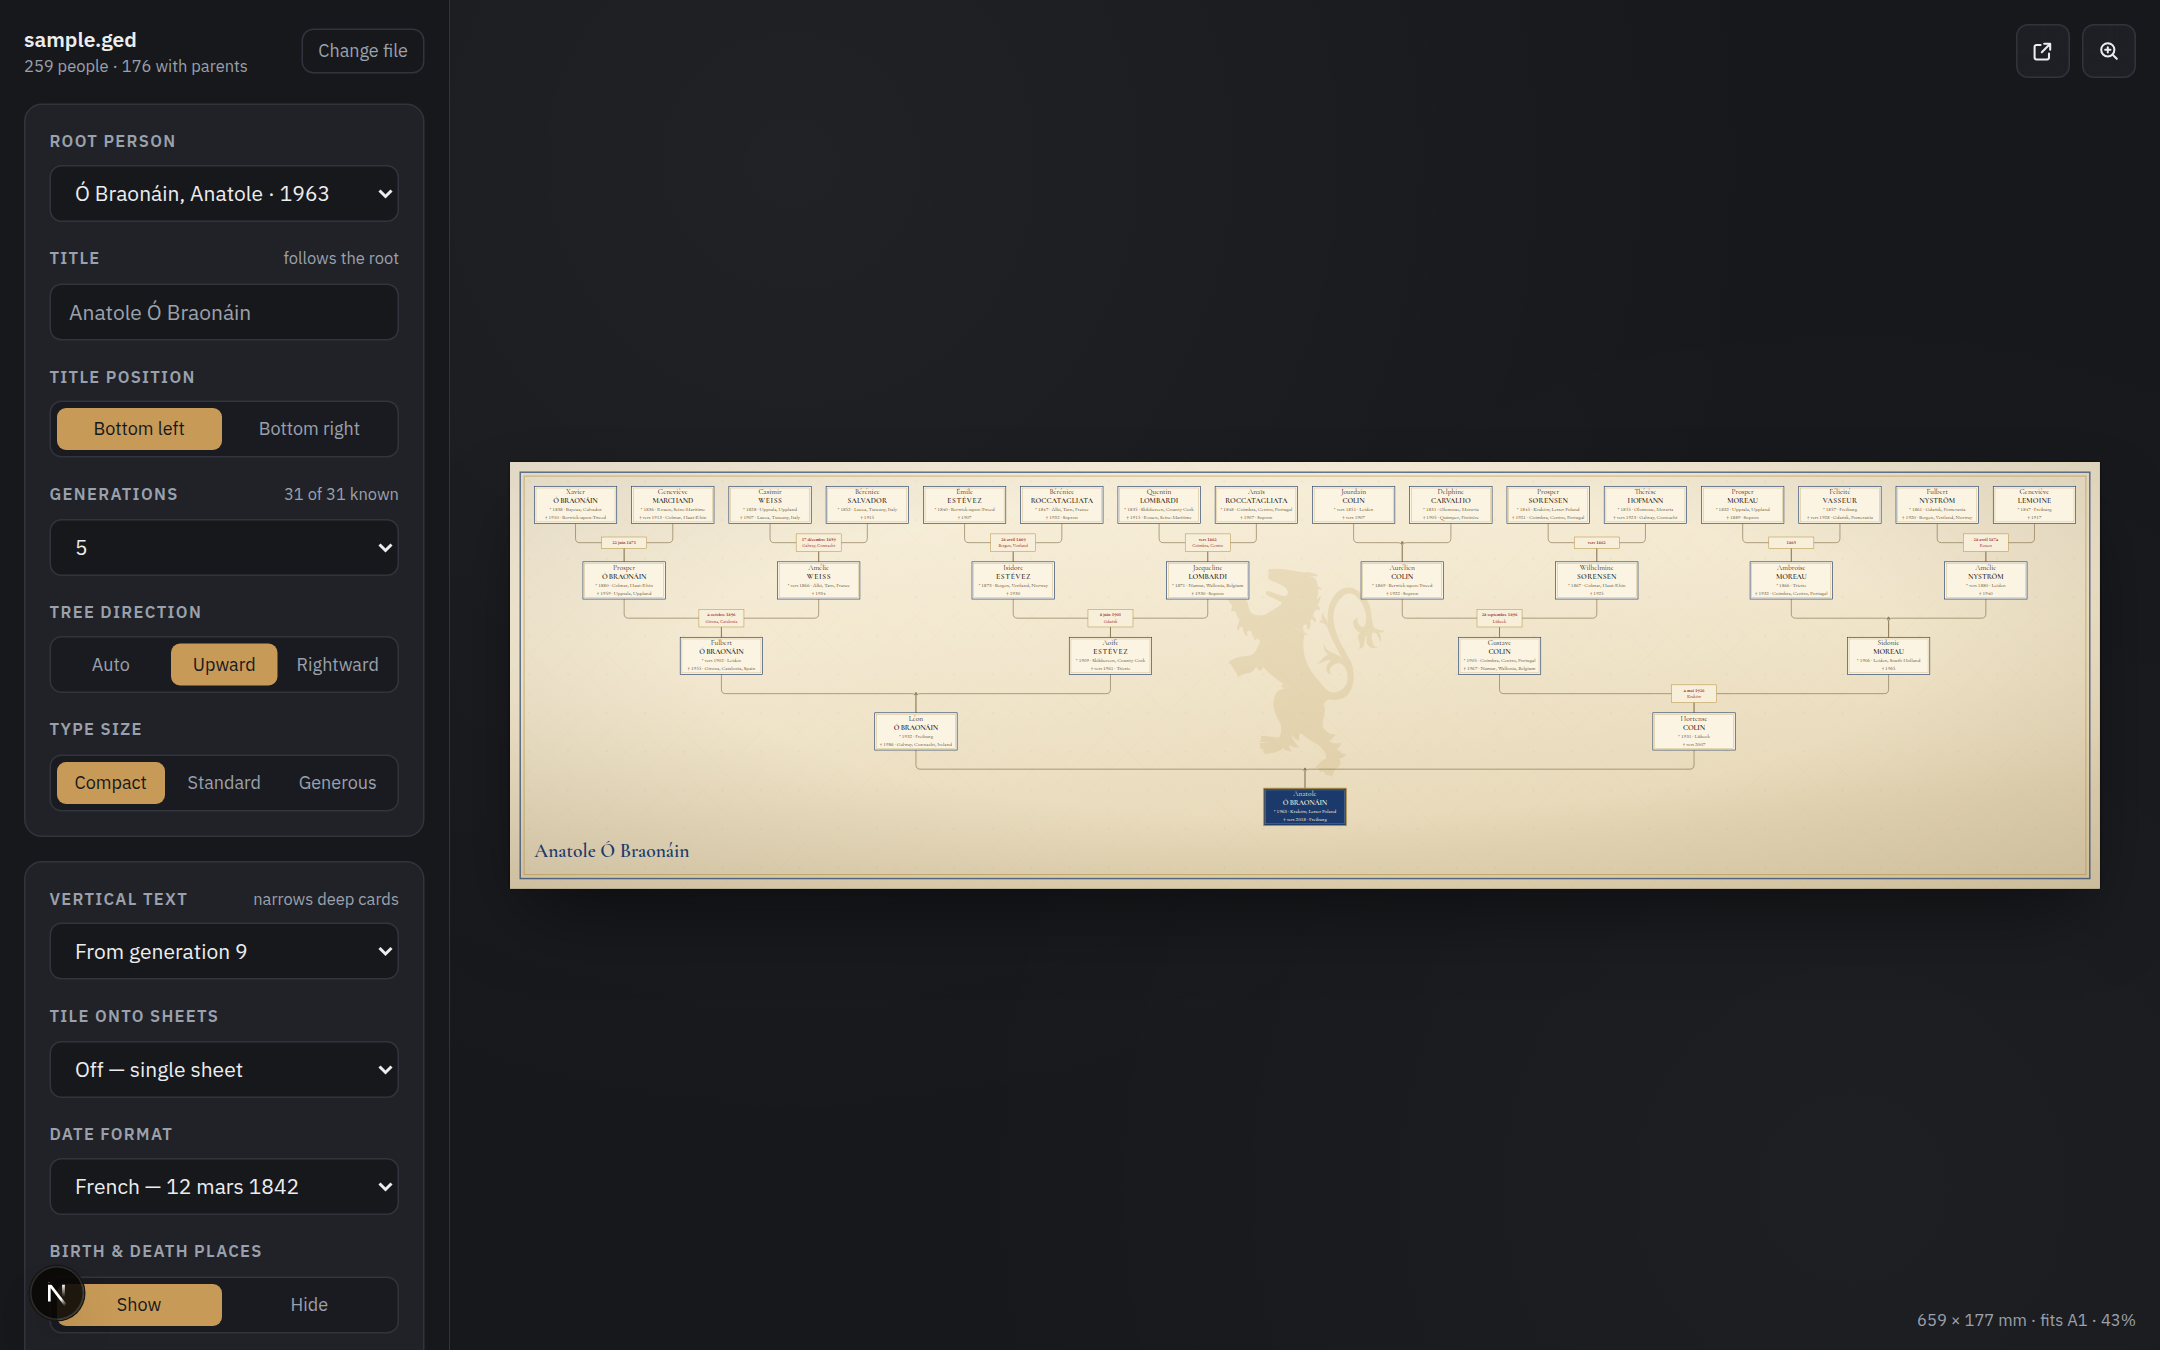
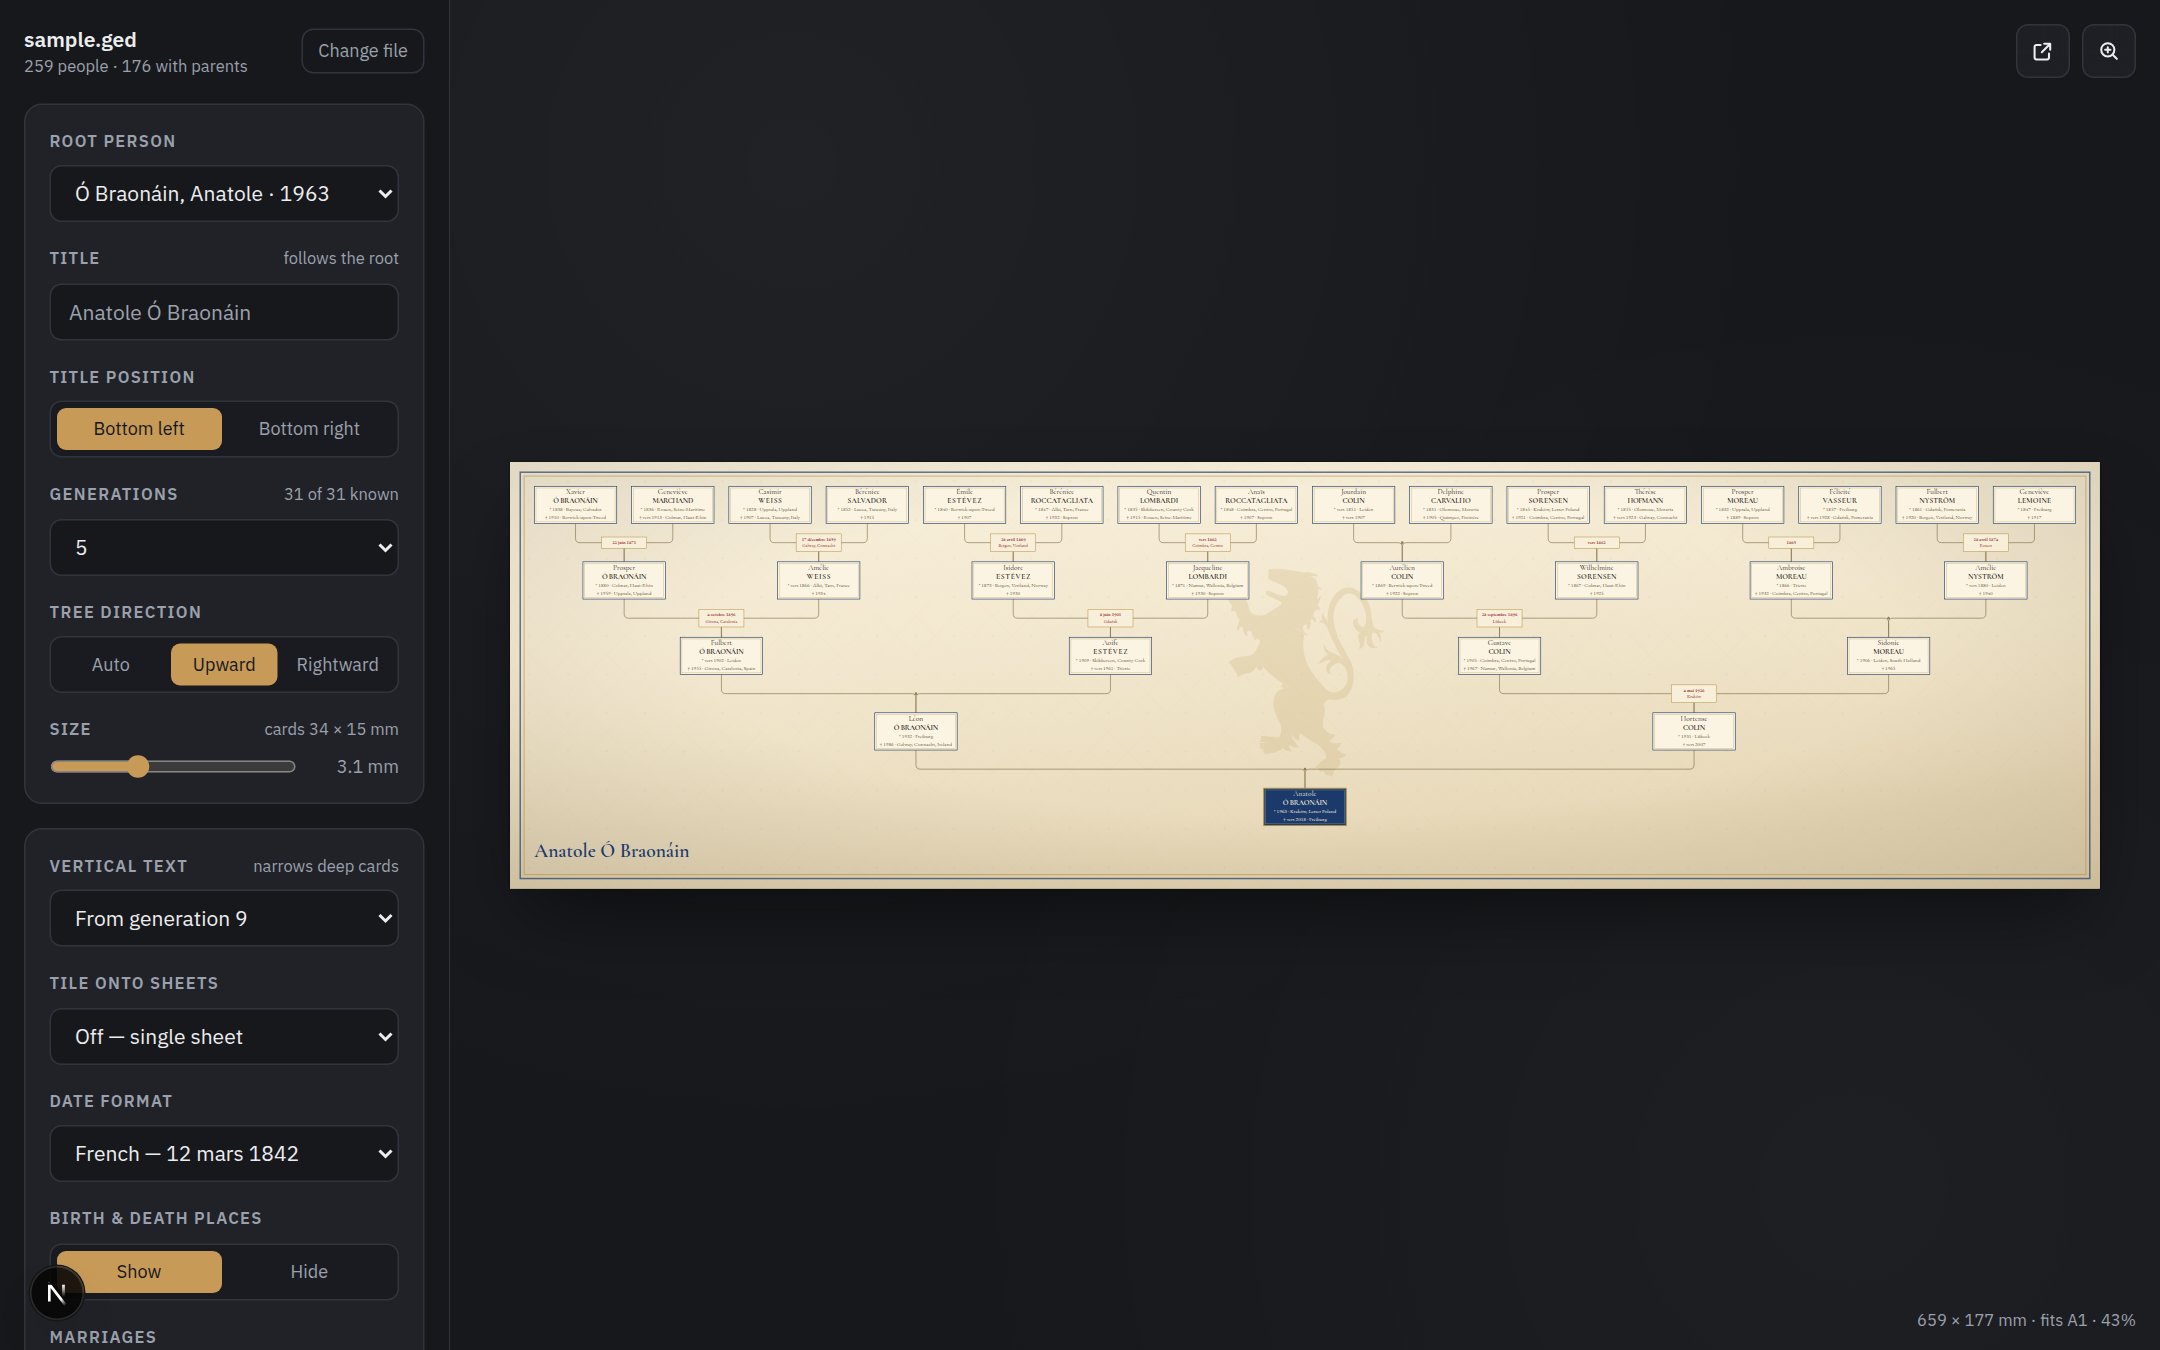
Add a black and white theme and a continuous size control
The plain theme is one object with no defs and no background layer at all;
it needed no component changes, which is what the theme registry is for.

Type size replaces the three presets with a continuous control, reported as
the resulting card size rather than the type size, since the card is what is
actually being aimed at. Packing density is interpolated from the size so
small type still gives a dense chart rather than a small one adrift.

Places that will not fit whole are now dropped rather than cut mid-word.

Changed region(s): [[0.0, 0.5289, 0.1861, 0.9956]]

diff --git a/src/lib/tree/layout.ts b/src/lib/tree/layout.ts
@@ -26,27 +26,35 @@ import type { Ancestry, AncestorSlot } from './ancestry'
 /** `up` puts the root at the bottom; `right` puts it at the left edge. */
 export type TreeDirection = 'up' | 'right'
 export type DirectionSetting = TreeDirection | 'auto'
-export type TypeScale = 'compact' | 'standard' | 'generous'
+/** Name size in millimetres. Everything else on the card derives from it. */
+export type NameSize = number
+
+/** Below this, print stops being readable at arm's length. */
+export const MIN_NAME_SIZE = 1.6
+export const MAX_NAME_SIZE = 6
 export type TitleAlign = 'left' | 'right'
 /** Generation from which card text is set on its side, or 'off'. */
 export type VerticalFrom = number | 'off'
 
-/** Name size in mm for each setting. Everything else is derived from it. */
-const NAME_SIZE: Record<TypeScale, number> = {
-  compact: 3.1,
-  standard: 3.9,
-  generous: 4.9,
-}
+const lerp = (a: number, b: number, t: number) => a + (b - a) * t
 
 /**
- * How tightly each setting packs. Compact is not merely smaller type — it also
- * pulls the padding, margins and gaps in, which is the difference between a
- * dense chart and a small one floating in white space.
+ * How tightly the chart packs, as a function of type size.
+ *
+ * Small type is not merely smaller — it also pulls padding, margins and gaps
+ * in, which is the difference between a dense chart and a small one adrift in
+ * white space. Interpolated rather than keyed off presets so the size control
+ * can be continuous: the card size is the thing being aimed at, and it needs
+ * to be reachable, not approximated by three steps.
  */
-const DENSITY: Record<TypeScale, { pad: number; margin: number; gap: number; run: number }> = {
-  compact: { pad: 0.5, margin: 0.56, gap: 0.18, run: 0.4 },
-  standard: { pad: 1, margin: 1, gap: 0.32, run: 0.55 },
-  generous: { pad: 1.15, margin: 1.15, gap: 0.38, run: 0.62 },
+function densityFor(nameSize: NameSize) {
+  const t = clamp((nameSize - 3.1) / (4.9 - 3.1), 0, 1)
+  return {
+    pad: lerp(0.5, 1.15, t),
+    margin: lerp(0.56, 1.15, t),
+    gap: lerp(0.18, 0.38, t),
+    run: lerp(0.4, 0.62, t),
+  }
 }
 
 export interface TextLine {
@@ -107,6 +115,8 @@ export interface MarriagePlaque {
 
 export interface PosterLayout {
   page: PageBox
+  /** Card size in mm, reported so the size control can be aimed at it. */
+  card: { w: number; h: number }
   /** The drawing ran past even the sanity ceiling; something is wrong upstream. */
   oversize: boolean
   direction: TreeDirection
@@ -136,9 +146,9 @@ const clamp = (v: number, lo: number, hi: number) => Math.min(hi, Math.max(lo, v
 const BORN = '*'
 const DIED = '†'
 
-export function posterMargin(theme: Theme, typeScale: TypeScale): number {
-  const { margin } = DENSITY[typeScale]
-  return round(clamp(NAME_SIZE[typeScale] * theme.page.marginScale * margin, 8, 42))
+export function posterMargin(theme: Theme, nameSize: NameSize): number {
+  const { margin } = densityFor(nameSize)
+  return round(clamp(nameSize * theme.page.marginScale * margin, 8, 42))
 }
 
 interface Sizing {
@@ -172,7 +182,7 @@ export interface LayoutInput {
   ancestry: Ancestry
   theme: Theme
   direction: DirectionSetting
-  typeScale: TypeScale
+  nameSize: NameSize
   showEmpty: boolean
   showPlaces: boolean
   showMarriages: boolean
@@ -187,8 +197,7 @@ export interface LayoutInput {
  * surname drives the width: it is never shortened, so the card grows instead.
  */
 function measureCards(input: LayoutInput): Sizing {
-  const { ancestry, theme, typeScale, showPlaces, showMarriages, dateFormat } = input
-  const nameSize = NAME_SIZE[typeScale]
+  const { ancestry, theme, nameSize, showPlaces, showMarriages, dateFormat } = input
   const dateSize = round(nameSize * 0.72)
   const plaqueSize = round(nameSize * 0.62)
 
@@ -246,8 +255,8 @@ function measureCards(input: LayoutInput): Sizing {
   }
 
   // Places influence the width but must not be allowed to dominate it.
-  const contentW = Math.max(nameWidth, metaWidth, Math.min(placeWidth, nameWidth * 1.5), 18)
-  const density = DENSITY[typeScale]
+  const contentW = Math.max(nameWidth, metaWidth, Math.min(placeWidth, nameWidth * 1.8), 18)
+  const density = densityFor(nameSize)
   const padX = round(nameSize * 0.85 * density.pad)
   const padY = round(nameSize * 0.5 * density.pad)
   const cardW = round(contentW + padX * 2)
@@ -498,11 +507,11 @@ function makeGrid(
   sizing: Sizing,
   direction: TreeDirection,
   showMarriages: boolean,
-  typeScale: TypeScale,
+  nameSize: NameSize,
   isVertical: (generation: number) => boolean,
   depth: number,
 ): Grid {
-  const density = DENSITY[typeScale]
+  const density = densityFor(nameSize)
   const boxW = (g: number) => (isVertical(g) ? sizing.cardH : sizing.cardW)
   const boxH = (g: number) => (isVertical(g) ? sizing.cardW : sizing.cardH)
 
@@ -523,12 +532,12 @@ function makeGrid(
 
 export function layoutPoster(input: LayoutInput): PosterLayout {
   const {
-    ancestry, theme, typeScale, showEmpty, showPlaces, showMarriages,
+    ancestry, theme, nameSize, showEmpty, showPlaces, showMarriages,
     title, titleAlign, verticalFrom, dateFormat,
   } = input
 
   const sizing = measureCards(input)
-  const margin = posterMargin(theme, typeScale)
+  const margin = posterMargin(theme, nameSize)
 
   const slotByNumber = new Map(ancestry.slots.map((slot) => [slot.ahnentafel, slot]))
   /** A slot is drawn if it holds someone, or if placeholders are switched on. */
@@ -559,7 +568,7 @@ export function layoutPoster(input: LayoutInput): PosterLayout {
   const depth = maxGeneration + 1
 
   const shapeFor = (candidate: TreeDirection) => {
-    const g = makeGrid(sizing, candidate, showMarriages, typeScale, isVertical, depth)
+    const g = makeGrid(sizing, candidate, showMarriages, nameSize, isVertical, depth)
     const sibling = leafCount * (g.siblingExtent(maxGeneration) + g.gap(maxGeneration))
     let span = -g.run
     for (let gen = 0; gen < depth; gen++) span += g.genExtent(gen) + g.run
@@ -573,7 +582,7 @@ export function layoutPoster(input: LayoutInput): PosterLayout {
           return ratio(shapeFor('right')) <= ratio(shapeFor('up')) ? 'right' : 'up'
         })()
 
-  const grid = makeGrid(sizing, direction, showMarriages, typeScale, isVertical, depth)
+  const grid = makeGrid(sizing, direction, showMarriages, nameSize, isVertical, depth)
 
   // Where each generation sits along its axis; extents can differ per row now.
   const genCentre: number[] = []
@@ -794,6 +803,7 @@ export function layoutPoster(input: LayoutInput): PosterLayout {
 
   return {
     page: { w: pageW, h: pageH },
+    card: { w: sizing.cardW, h: sizing.cardH },
     oversize,
     direction,
     margin,

diff --git a/src/components/ControlPanel.tsx b/src/components/ControlPanel.tsx
@@ -6,12 +6,13 @@ import type { SheetName, TilePlan } from '@/lib/pdf/tile'
 import { THEMES } from '@/lib/themes'
 import { MAX_GENERATIONS, MIN_GENERATIONS } from '@/lib/tree/ancestry'
 import type { Ancestry } from '@/lib/tree/ancestry'
-import type {
-  DirectionSetting,
-  TitleAlign,
-  TreeDirection,
-  TypeScale,
-  VerticalFrom,
+import {
+  MAX_NAME_SIZE,
+  MIN_NAME_SIZE,
+  type DirectionSetting,
+  type TitleAlign,
+  type TreeDirection,
+  type VerticalFrom,
 } from '@/lib/tree/layout'
 import type { Genealogy, Person } from '@/lib/gedcom/types'
 import type { PosterConfig } from '@/lib/config'
@@ -28,6 +29,7 @@ interface ControlPanelProps {
   oversize: boolean
   reachable: number
   page: PageBox | null
+  card: { w: number; h: number } | null
   tilePlan: TilePlan | null
   exporting: 'pdf' | 'svg' | 'tiles' | null
   exportError: string | null
@@ -44,6 +46,7 @@ export function ControlPanel({
   root,
   ancestry,
   direction,
+  card,
   oversize,
   reachable,
   page,
@@ -178,17 +181,27 @@ export function ControlPanel({
           />
         </Field>
 
-        <Field label="Type size">
-          <Segmented
-            value={config.typeScale}
-            onChange={(value) => onChange({ typeScale: value as TypeScale })}
-            options={[
-              { value: 'compact', label: 'Compact' },
-              { value: 'standard', label: 'Standard' },
-              { value: 'generous', label: 'Generous' },
-            ]}
-          />
+        <Field
+          label="Size"
+          hint={card ? `cards ${Math.round(card.w)} × ${Math.round(card.h)} mm` : undefined}
+        >
+          <div className="flex items-center gap-3">
+            <input
+              type="range"
+              min={MIN_NAME_SIZE}
+              max={MAX_NAME_SIZE}
+              step={0.1}
+              value={config.nameSize}
+              onChange={(event) => onChange({ nameSize: Number(event.target.value) })}
+              aria-label="Type size"
+              className="min-w-0 flex-1"
+            />
+            <span className="w-14 shrink-0 text-right text-xs tabular-nums text-[var(--ui-muted)]">
+              {config.nameSize.toFixed(1)} mm
+            </span>
+          </div>
         </Field>
+
       </Panel>
 
       <Panel className="space-y-4">

diff --git a/src/lib/themes/plain.tsx b/src/lib/themes/plain.tsx
@@ -1,0 +1,68 @@
+/**
+ * Black & white — no ground, no ornament, no tints.
+ *
+ * Deliberately the plainest thing the renderer can draw: hairline rules on
+ * white, one typeface, and no decorative layer at all. It photocopies, faxes
+ * and prints on a monochrome laser without surprises, and it is the theme to
+ * reach for when the chart itself is the only thing that should be looked at.
+ */
+import { IBM_PLEX_SANS } from './fonts'
+import type { Theme } from './types'
+
+const INK = '#000000'
+const PAPER = '#FFFFFF'
+
+export const plain: Theme = {
+  id: 'plain',
+  name: 'Black & white',
+
+  fonts: { display: IBM_PLEX_SANS, body: IBM_PLEX_SANS },
+
+  palette: {
+    paper: PAPER,
+    ink: INK,
+    inkMuted: '#444444',
+    accent: INK,
+
+    nodeFill: PAPER,
+    nodeStroke: INK,
+    nodeInk: INK,
+
+    rootFill: INK,
+    rootStroke: INK,
+    rootInk: PAPER,
+
+    emptyFill: 'none',
+    emptyStroke: '#9A9A9A',
+    emptyInk: '#9A9A9A',
+
+    connector: INK,
+    titleInk: INK,
+
+    plaqueFill: PAPER,
+    plaqueStroke: INK,
+    plaqueInk: INK,
+  },
+
+  page: { marginScale: 4.6, hairline: 0.15 },
+
+  node: {
+    radius: 0,
+    strokeWidth: 0.2,
+    emptyDash: '1 1',
+    surnameCase: 'upper',
+    surnameTracking: 0.06,
+  },
+
+  connector: {
+    style: 'elbow',
+    strokeWidth: 0.2,
+    opacity: 1,
+    cornerRadius: 0,
+    junctionRadius: 0,
+    mutedOpacity: 0.45,
+  },
+
+  // Nothing at all: the poster's own paper rect is the whole background.
+  background: {},
+}

diff --git a/src/lib/text.ts b/src/lib/text.ts
@@ -96,8 +96,10 @@ export function firstGivenName(given: string): string {
 /**
  * Places shorten by dropping the outer administrative levels — "Rouen,
  * Seine-Maritime, France" becomes "Rouen, Seine-Maritime" then "Rouen".
- * Unlike a surname a place may finally be clipped, since it is context rather
- * than identity.
+ *
+ * If even the locality will not fit, the place is dropped entirely rather than
+ * cut mid-word: "Berwick-upon-Twe…" is neither useful nor good-looking, and a
+ * poster is not the place to read a truncated toponym.
  */
 export function shortenPlace(place: string, maxWidth: number, style: TextStyle): string {
   if (!place) return ''
@@ -106,5 +108,5 @@ export function shortenPlace(place: string, maxWidth: number, style: TextStyle):
     const candidate = parts.slice(0, keep).join(', ')
     if (measureText(candidate, style) <= maxWidth) return candidate
   }
-  return fitText(parts[0] ?? place, maxWidth, style)
+  return ''
 }

diff --git a/src/app/page.tsx b/src/app/page.tsx
@@ -20,7 +20,7 @@ const INITIAL_CONFIG: PosterConfig = {
   rootId: null,
   generations: 5,
   direction: 'up',
-  typeScale: 'compact',
+  nameSize: 3.1,
   themeId: DEFAULT_THEME_ID,
   title: '',
   titleAlign: 'left',
@@ -98,7 +98,7 @@ export default function Home() {
       ancestry,
       theme,
       direction: config.direction,
-      typeScale: config.typeScale,
+      nameSize: config.nameSize,
       showEmpty: config.showEmpty,
       showPlaces: config.showPlaces,
       showMarriages: config.showMarriages,
@@ -215,6 +215,7 @@ export default function Home() {
         root={root}
         ancestry={ancestry}
         direction={poster?.direction ?? null}
+        card={poster?.card ?? null}
         oversize={poster?.oversize ?? false}
         reachable={reachable}
         page={poster?.page ?? null}

diff --git a/src/lib/config.ts b/src/lib/config.ts
@@ -1,12 +1,13 @@
 import type { DateFormat } from './dates'
 import type { SheetName } from './pdf/tile'
-import type { DirectionSetting, TitleAlign, TypeScale, VerticalFrom } from './tree/layout'
+import type { DirectionSetting, NameSize, TitleAlign, VerticalFrom } from './tree/layout'
 
 export interface PosterConfig {
   rootId: string | null
   generations: number
   direction: DirectionSetting
-  typeScale: TypeScale
+  /** Name size in mm; the card size follows from it. */
+  nameSize: NameSize
   themeId: string
   /** Poster title. Empty follows the root person's name. */
   title: string

diff --git a/src/lib/themes/index.ts b/src/lib/themes/index.ts
@@ -8,9 +8,10 @@ import { archival } from './archival'
 import { blueprint } from './blueprint'
 import { botanical } from './botanical'
 import { heraldic } from './heraldic'
+import { plain } from './plain'
 import type { Theme } from './types'
 
-export const THEMES: Theme[] = [archival, heraldic, blueprint, botanical]
+export const THEMES: Theme[] = [plain, archival, heraldic, blueprint, botanical]
 
 export const DEFAULT_THEME_ID = archival.id
 
